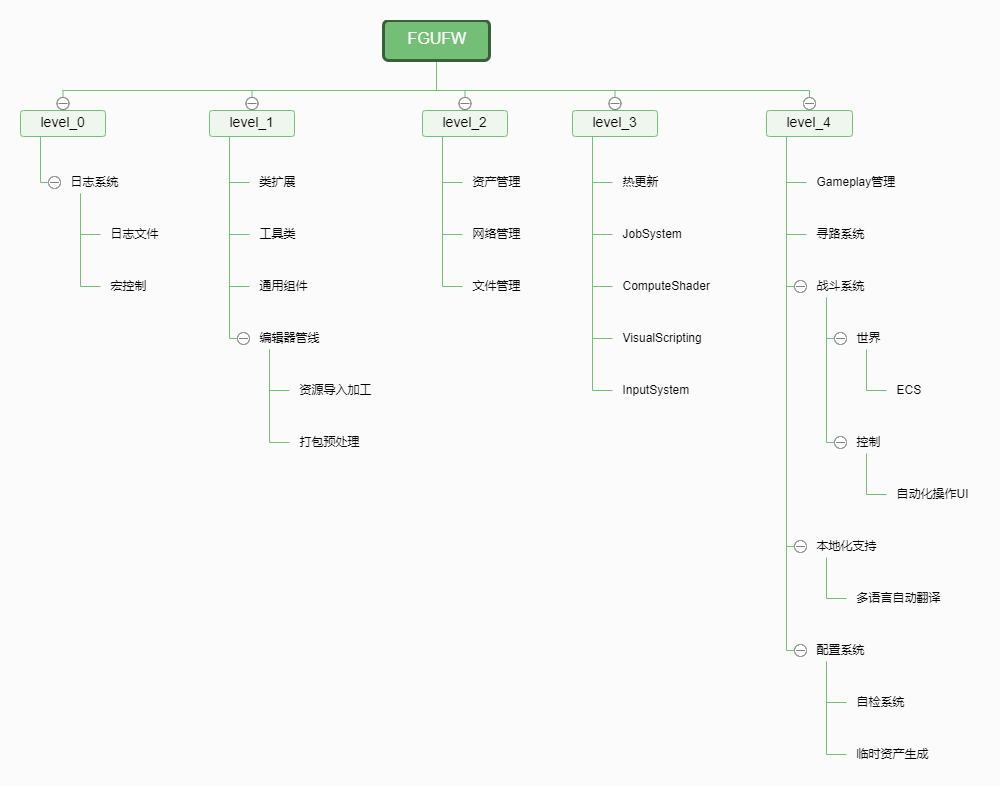
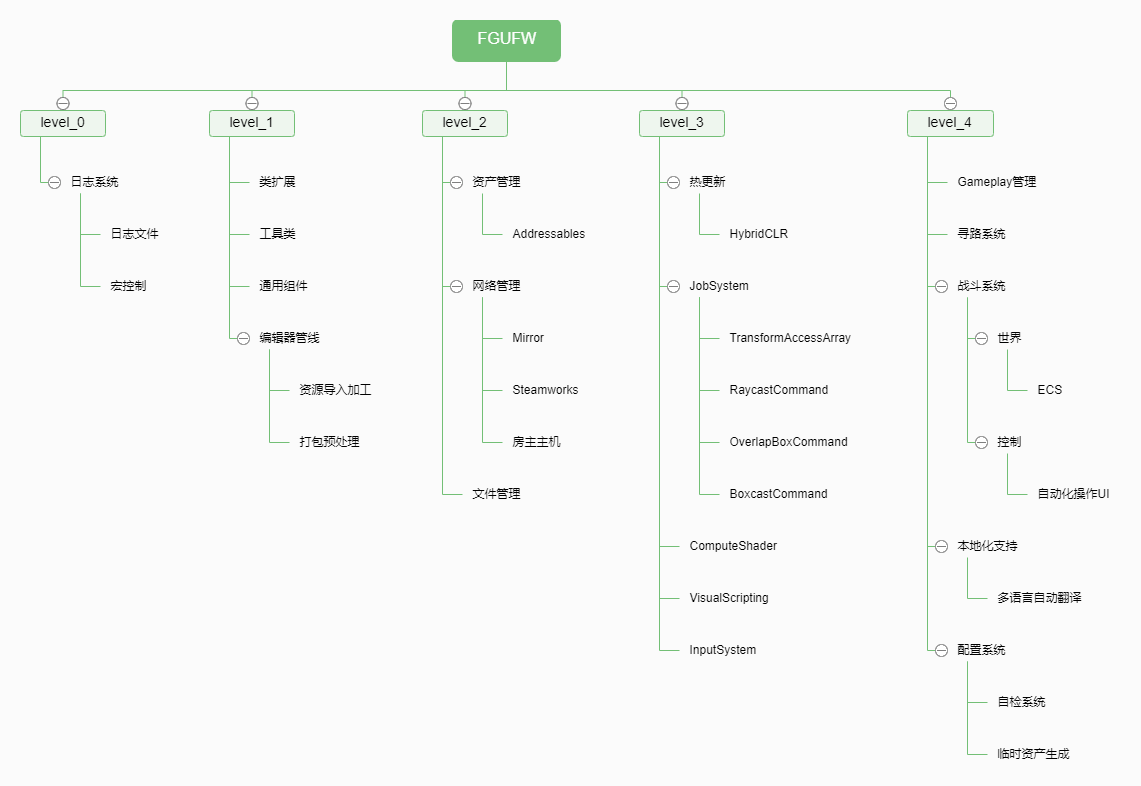
扩展FileHelper 修改框架结构

diff --git a/Assets/FGUFW/Core/Helper/FileHelper.cs b/Assets/FGUFW/Core/Helper/FileHelper.cs
@@ -1,6 +1,9 @@
 using System;
+using System.Collections;
 using System.IO;
 using System.Text;
+using UnityEngine;
+using UnityEngine.Networking;
 
 namespace FGUFW
 {
@@ -79,6 +82,70 @@ namespace FGUFW
                 throw new Exception("非预期的byte格式");
             }
             return true;
+        }
+
+        public static void LocalWrite(string localPath,byte[] data)
+        {
+            var path = Path.Combine(Application.persistentDataPath,localPath);
+            var directoryPath = Path.GetDirectoryName(path);
+            if(!Directory.Exists(directoryPath))
+            {
+                Directory.CreateDirectory(directoryPath);
+            }
+
+            File.WriteAllBytes(path,data);
+
+        }
+
+        public static void LocalWrite(string localPath,string text)
+        {
+            var path = Path.Combine(Application.persistentDataPath,localPath);
+            var directoryPath = Path.GetDirectoryName(path);
+            if(!Directory.Exists(directoryPath))
+            {
+                Directory.CreateDirectory(directoryPath);
+            }
+
+            File.WriteAllText(path,text);
+
+        }
+
+        public static byte[] LocaRead(string localPath)
+        {
+            var path = Path.Combine(Application.persistentDataPath,localPath);
+            
+            if(File.Exists(path))
+            {
+                return File.ReadAllBytes(path);
+            }
+
+            return default;
+
+        }
+
+        public static string LocaReadText(string localPath)
+        {
+            var path = Path.Combine(Application.persistentDataPath,localPath);
+            
+            if(File.Exists(path))
+            {
+                return File.ReadAllText(path);
+            }
+
+            return default;
+
+        }
+
+        public static IEnumerator LoadStreaming(string localPath,Action<string,DownloadHandler> callback)
+        {
+            var path = Path.Combine(Application.streamingAssetsPath,localPath);
+            var uri = new Uri(path);
+            using (var uwr = UnityWebRequest.Get(uri))
+            {
+                uwr.downloadHandler = new DownloadHandlerBuffer();
+                yield return uwr.SendWebRequest();
+                callback(uwr.error,uwr.downloadHandler);
+            }
         }
         
     }

diff --git a/Assets/FGUFW/Core/TypeExtensions/UnityWebRequestExtensions.cs b/Assets/FGUFW/Core/TypeExtensions/UnityWebRequestExtensions.cs
@@ -10,9 +10,9 @@ namespace FGUFW
 {
     public static class UnityWebRequestExtensions
     {
-        public static IEnumerator StreamingCopy(string originPath,string savePath,Action<string> complete)
+        public static IEnumerator StreamingCopy(string localPath,string savePath,Action<string> complete)
         {
-            var url = new Uri(Path.Combine(Application.streamingAssetsPath,originPath));
+            var url = new Uri(Path.Combine(Application.streamingAssetsPath,localPath));
             UnityWebRequest uwr = new UnityWebRequest(url);
             uwr.downloadHandler = new DownloadHandlerFile(savePath);
             yield return uwr.SendWebRequest();
